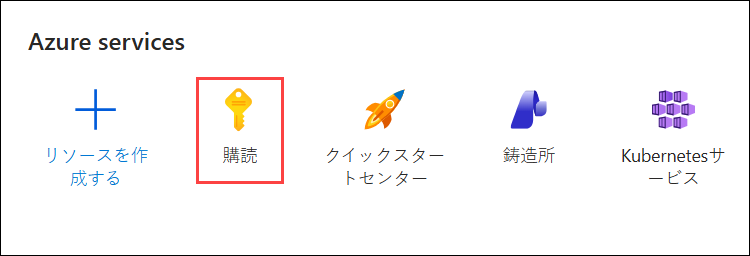
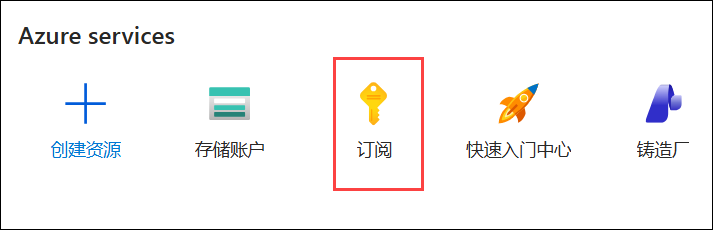
Add Simplified Chinese content

diff --git a/overview-d365.md b/overview-d365.md
@@ -1,63 +1,53 @@
 # ASIA - AI CoE 2026
 
-Using this environment, you can explore the full range of capabilities and services, including Copilot Studio, Copilot for M365 and Dynamic 365 Suite. A detailed overview of the sandbox environment is provided below.
+使用此环境，您可以探索包括 Copilot Studio、Copilot for M365 和 Dynamics 365 套件在内的各种功能和服务。以下是沙盒环境的详细概述。
 
-## About the Sandbox Environment
+## 关于沙盒环境
 
-   | Resources | Value | Remarks |
+   | 资源 | 值 | 备注 |
    | --- | --- | --- |
-   | Enabled Services | `Microsoft Fabric` <br> `Other Azure Services` | You will have access to a dedicated, Owner role permissions on the subscription to explore any desired resources |
-   | Azure Entra ID User | Pre-created Entra ID user account | You will get one Entra ID User Account. |
-   | Azure Subscription Permissions | **Owner** privilege over Azure Subscription | You will get owner access to the Azure subscription. |
-   | Azure Credit | **$250 USD**| Consumption limit is set on Azure spend to 250 USD per group. |
-   | Licenses Assigned | `Microsoft Copilot Business` <br> `Office 365 apps` <br> `Power Apps Premium` <br> `GitHub Copilot` <br> `Microsoft Copilot Studio User License` <br> `Dynamics 365 Finance` <br> `Dynamics 365 Supply Chain Management` <br> `Dynamics 365 Project Operations` <br> `Dynamics 365 Sales Enterprise Edition` <br> `Dynamics 365 Human Resources` <br> `Dynamics 365 Field Service` <br> `Dynamics 365 Business Central Essentials` <br> `Dynamics 365 Customer Service Enterprise` | You will be assigned the following licenses to work with. |
-   | Credit Alerts | Credit Alerts are set on consumption of 25%, 50%, 75%, 85%, 90%, 95% and 100% of total Azure credits. |Make sure to check your registered email's inbox for any alert-related mails. Alerts give you a head start to keep your Azure spending in control and to plan out the remaining credits in the best way possible. |
-   | Sandbox Duration | 30 Days/720 Hours or until Azure Consumption Credits are exhausted.  | The sandbox environment will be deleted automatically after 30 Days/720 Hours or once the Azure credits are exhausted, whichever comes first. |
+   | 已启用的服务 | `Microsoft Fabric` <br> `其他 Azure 服务` | 您将获得订阅的 Owner 角色权限，可自由探索所需资源 |
+   | Azure Entra ID 用户 | 预创建的 Entra ID 用户账户 | 您将获得一个 Entra ID 用户账户。 |
+   | Azure 订阅权限 | Azure 订阅的 **Owner** 权限 | 您将获得 Azure 订阅的所有者访问权限。 |
+   | Azure 额度 | **$250 USD** | 每组 Azure 消费限额设置为 250 美元。 |
+   | 已分配的许可证 | `Microsoft Copilot Business` <br> `Office 365 apps` <br> `Power Apps Premium` <br> `GitHub Copilot` <br> `Microsoft Copilot Studio User License` <br> `Dynamics 365 Finance` <br> `Dynamics 365 Supply Chain Management` <br> `Dynamics 365 Project Operations` <br> `Dynamics 365 Sales Enterprise Edition` <br> `Dynamics 365 Human Resources` <br> `Dynamics 365 Field Service` <br> `Dynamics 365 Business Central Essentials` <br> `Dynamics 365 Customer Service Enterprise` | 您将获得以下许可证以供使用。 |
+   | 额度提醒 | 当 Azure 额度消耗达到总量的 25%、50%、75%、85%、90%、95% 和 100% 时，将发送额度提醒。 | 请务必检查您注册邮箱的收件箱中是否有提醒相关邮件。提醒可帮助您提前掌握 Azure 使用情况，并以最优方式规划剩余额度。 |
+   | 沙盒有效期 | 30 天/720 小时，或 Azure 消费额度耗尽，以先到者为准 | 沙盒环境将在 30 天/720 小时后或 Azure 额度耗尽时自动删除，以先到者为准。 |
 
-## Notes:
-* The Azure credit consumption includes all the resources which you will be deploying while using the sandbox environment for your hackathon use case.
-* You will have owner access on the Azure subscription, you can freely explore the features of required services and are recommended to use it only for learning purposes.
-* Each sandbox environment has a fixed budget cap of USD 250. Please refrain from deploying any resources outside of the sandbox scope, as they may consume the allocated Azure credits and result in the automatic deallocation of the environment once the credit limit is reached.
+## 注意事项:
+* Azure 额度消耗包括您在沙盒环境中用于黑客松用例而部署的所有资源。
+* 您将获得 Azure 订阅的所有者访问权限，可自由探索所需服务的功能，建议仅用于学习目的。
+* 每个沙盒环境的固定预算上限为 250 美元。请勿在沙盒范围之外部署任何资源，否则可能消耗已分配的 Azure 额度，并导致环境在达到额度上限后自动删除。
 
-## Microsoft Fabric Cost Optimization
+## Microsoft Fabric 成本优化
 
-While deploying Microsoft Fabric capacity, use F2 capacity, as it is sufficient for most workloads and helps optimize costs while efficiently utilizing the assigned Azure credits.
+部署 Microsoft Fabric 容量时，建议使用 F2 容量，它足以应对大多数工作负载，同时有助于优化成本并高效利用已分配的 Azure 额度。
 
-## Azure OpenAI Cost Optimization:
-Azure OpenAI service provides two types of deployment SKUs: Standard and PTU-based deployment. The PTU-based model, although powerful, can be quite costly, with a price of **$2 per hour**. Deploying this model would result in a daily cost of **$48**, which may not be a cost-effective option to consider. Additionally, deploying the PTU-based model would quickly exhaust credits within 2-3 days, leading to the automatic deletion of the environment. Therefore, we recommend opting for the **Standard (On-Demand)** Pricing model instead, which offers a more affordable and sustainable deployment strategy.
+## Azure OpenAI 成本优化:
+Azure OpenAI 服务提供两种部署 SKU：Standard 和基于 PTU 的部署。基于 PTU 的模型虽然功能强大，但成本极高，价格为 **每小时 $2**。部署此模型每日成本将达到 **$48**，并不是一个经济实惠的选择。此外，部署基于 PTU 的模型可能在 2 至 3 天内耗尽额度，导致环境被自动删除。因此，建议选择 **Standard（按需）** 定价模型，这是一种更实惠且可持续的部署策略。
 
-## Cost Monitoring:
-To monitor and analyse your Azure credit spend, you can navigate to the Azure Subscription page by following the steps mentioned below.
-+ From the Azure portal home page, search for **Subscriptions (1)** using the search bar and select the same from the suggestions.
+## 成本监控:
+如需监控和分析您的 Azure 额度消耗，可按照以下步骤导航到 Azure 订阅页面。
++ 在 Azure 门户主页中，使用搜索栏搜索 **订阅 (1)**，然后从建议中选择。
   
   ![](media/cost1.png "cost analysis")
   
-+ Select the Cost Analysis tab from the Cost Management pane. You can access a comprehensive breakdown of your Azure spending, offering a granular view of costs associated with various services, and resources.
++ 在"成本管理"窗格中选择"成本分析"选项卡。您可以访问 Azure 支出的综合明细，详细查看与各项服务和资源相关的成本。
 
   ![](media/cost2.png "cost analysis")
 
-+ To get the accurate consumed cost by you, select the **Calendar (2)** from **Cost analysis (1)**  then **Custom date Range (3)**.
 
-  ![](media/cost3.png "cost analysis")
 
-+ Now, select the custom dates.
-    + **Start Date: (1)** The date when you redeemed voucher and launch the Sandbox environment.
-    + **End Date: (2)** Current or future date. If you select the future date, you can also get the forecasted cost based on the current resources you deployed.
-    + You can see the **ACTUAL COST (USD) (4)** and the **FORECAST: CHART VIEW ON (5)** cost.
+## 最佳实践:
++ **资源使用:** 不使用虚拟机、Web 应用、Azure Kubernetes Service、Azure 容器实例及其他资源时，请及时停止，以减少 Azure 消费。
++ **Azure 成本分析:** 养成定期检查已分配 Azure 订阅成本分析报告的习惯，确保环境在较长时间内保持可持续性。
++ **提醒通知:** 请务必检查您注册邮箱的收件箱中是否有提醒相关邮件。提醒可帮助您提前掌握 Azure 使用情况，并以最优方式规划剩余额度。
 
-  ![](media/cost4.png "cost analysis")
+## CloudLabs 支持联系方式:
+如果您在使用沙盒环境时遇到任何问题，或有权限、Azure 消耗相关的疑问，请联系支持团队。
 
-## Best Practices:
-+ **Resources usage:** Please stop the virtual machines, WebApps, Azure Kubernetes service, Azure Container Instance and other resources when not in use to minimize the Azure spend.
-+ **Azure Cost Analysis:** Maintain a practice of regularly checking the Cost Analysis report for the assigned Azure subscription to ensure the sustainability of the environment over an extended period.
-+ **Alert notifications:** Make sure to check your registered email's inbox for any alert-related emails. Alerts give you can head start to keep your Azure spending in control and to plan out the remaining credits in the best way possible.
+* 沙盒用户邮件支持: cloudlabs-support@spektrasystems.com
+* 沙盒用户在线聊天支持: https://cloudlabs.ai/ms-support
 
-## CloudLabs Support Contacts:
-You can reach out to the support team in case you face any difficulty in using the sandbox environment, any permission, or Azure consumption-related queries.
-
-* Sandbox user Email Support:  cloudlabs-support@spektrasystems.com
-* Sandbox user Live Chat Support: https://cloudlabs.ai/ms-support
-
-When you contact support, please provide the following information:
-+  "I am a participant user of **ASIA - AI CoE 2026**, my registered email address is `email@contoso.com`, followed by your query/issue."
-
+联系支持时，请提供以下信息：
++ "我是 **ASIA - AI CoE 2026** 的参与者，我的注册邮箱地址是 `email@contoso.com`，"后跟您的问题/请求。

diff --git a/overview.md b/overview.md
@@ -1,63 +1,53 @@
 # ASIA - AI CoE 2026
 
-Using this environment, you can explore the full range of capabilities and services, including Copilot Studio, Copilot for M365 and many others. A detailed overview of the sandbox environment is provided below.
+使用此环境，您可以探索包括 Copilot Studio、Copilot for M365 在内的各种功能和服务。以下是沙盒环境的详细概述。
 
-## About the Sandbox Environment
+## 关于沙盒环境
 
-   | Resources | Value | Remarks |
+   | 资源 | 值 | 备注 |
    | --- | --- | --- |
-   | Enabled Services | `Microsoft Fabric` <br> `Other Azure Services` | You will have access to a dedicated, Owner role permissions on the subscription to explore any desired resources |
-   | Azure Entra ID User | Pre-created Entra ID user account | You will get one Entra ID User Account. |
-   | Azure Subscription Permissions | **Owner** privilege over Azure Subscription | You will get owner access to the Azure subscription. |
-   | Azure Credit | **$250 USD**| Consumption limit is set on Azure spend to 250 USD per group. |
-   | Licenses Assigned | `Microsoft Copilot Business` <br> `Office 365 apps` <br> `Power Apps Premium` <br> `GitHub Copilot` <br> `Microsoft Copilot Studio User License` | You will be assigned the following licenses to work with. |
-   | Credit Alerts | Credit Alerts are set on consumption of 25%, 50%, 75%, 85%, 90%, 95% and 100% of total Azure credits. |Make sure to check your registered email's inbox for any alert-related mails. Alerts give you a head start to keep your Azure spending in control and to plan out the remaining credits in the best way possible. |
-   | Sandbox Duration | 30 Days/720 Hours or until Azure Consumption Credits are exhausted.  | The sandbox environment will be deleted automatically after 30 Days/720 Hours or once the Azure credits are exhausted, whichever comes first. |
+   | 已启用的服务 | `Microsoft Fabric` <br> `其他 Azure 服务` | 您将获得订阅的 Owner 角色权限，可自由探索所需资源 |
+   | Azure Entra ID 用户 | 预创建的 Entra ID 用户账户 | 您将获得一个 Entra ID 用户账户。 |
+   | Azure 订阅权限 | Azure 订阅的 **Owner** 权限 | 您将获得 Azure 订阅的所有者访问权限。 |
+   | Azure 额度 | **$250 USD** | 每组 Azure 消费限额设置为 250 美元。 |
+   | 已分配的许可证 | `Microsoft Copilot Business` <br> `Office 365 apps` <br> `Power Apps Premium` <br> `GitHub Copilot` <br> `Microsoft Copilot Studio User License` | 您将获得以下许可证以供使用。 |
+   | 额度提醒 | 当 Azure 额度消耗达到总量的 25%、50%、75%、85%、90%、95% 和 100% 时，将发送额度提醒。 | 请务必检查您注册邮箱的收件箱中是否有提醒相关邮件。提醒可帮助您提前掌握 Azure 使用情况，并以最优方式规划剩余额度。 |
+   | 沙盒有效期 | 30 天/720 小时，或 Azure 消费额度耗尽，以先到者为准 | 沙盒环境将在 30 天/720 小时后或 Azure 额度耗尽时自动删除，以先到者为准。 |
 
-## Notes:
-* The Azure credit consumption includes all the resources which you will be deploying while using the sandbox environment for your hackathon use case.
-* You will have owner access on the Azure subscription, you can freely explore the features of required services and are recommended to use it only for learning purposes.
-* Each sandbox environment has a fixed budget cap of USD 250. Please refrain from deploying any resources outside of the sandbox scope, as they may consume the allocated Azure credits and result in the automatic deallocation of the environment once the credit limit is reached.
+## 注意事项:
+* Azure 额度消耗包括您在沙盒环境中用于黑客松用例而部署的所有资源。
+* 您将获得 Azure 订阅的所有者访问权限，可自由探索所需服务的功能，建议仅用于学习目的。
+* 每个沙盒环境的固定预算上限为 250 美元。请勿在沙盒范围之外部署任何资源，否则可能消耗已分配的 Azure 额度，并导致环境在达到额度上限后自动删除。
 
-## Microsoft Fabric Cost Optimization
+## Microsoft Fabric 成本优化
 
-While deploying Microsoft Fabric capacity, use F2 capacity, as it is sufficient for most workloads and helps optimize costs while efficiently utilizing the assigned Azure credits.
+部署 Microsoft Fabric 容量时，建议使用 F2 容量，它足以应对大多数工作负载，同时有助于优化成本并高效利用已分配的 Azure 额度。
 
-## Azure OpenAI Cost Optimization:
-Azure OpenAI service provides two types of deployment SKUs: Standard and PTU-based deployment. The PTU-based model, although powerful, can be quite costly, with a price of **$2 per hour**. Deploying this model would result in a daily cost of **$48**, which may not be a cost-effective option to consider. Additionally, deploying the PTU-based model would quickly exhaust credits within 2-3 days, leading to the automatic deletion of the environment. Therefore, we recommend opting for the **Standard (On-Demand)** Pricing model instead, which offers a more affordable and sustainable deployment strategy.
+## Azure OpenAI 成本优化:
+Azure OpenAI 服务提供两种部署 SKU：Standard 和基于 PTU 的部署。基于 PTU 的模型虽然功能强大，但成本极高，价格为 **每小时 $2**。部署此模型每日成本将达到 **$48**，并不是一个经济实惠的选择。此外，部署基于 PTU 的模型可能在 2 至 3 天内耗尽额度，导致环境被自动删除。因此，建议选择 **Standard（按需）** 定价模型，这是一种更实惠且可持续的部署策略。
 
-## Cost Monitoring:
-To monitor and analyse your Azure credit spend, you can navigate to the Azure Subscription page by following the steps mentioned below.
-+ From the Azure portal home page, search for **Subscriptions (1)** using the search bar and select the same from the suggestions.
+## 成本监控:
+如需监控和分析您的 Azure 额度消耗，可按照以下步骤导航到 Azure 订阅页面。
++ 在 Azure 门户主页中，使用搜索栏搜索 **订阅 (1)**，然后从建议中选择。
   
   ![](media/cost1.png "cost analysis")
   
-+ Select the Cost Analysis tab from the Cost Management pane. You can access a comprehensive breakdown of your Azure spending, offering a granular view of costs associated with various services, and resources.
++ 在“成本管理”窗格中选择“成本分析”选项卡。您可以访问 Azure 支出的综合明细，详细查看与各项服务和资源相关的成本。
 
   ![](media/cost2.png "cost analysis")
 
-+ To get the accurate consumed cost by you, select the **Calendar (2)** from **Cost analysis (1)**  then **Custom date Range (3)**.
 
-  ![](media/cost3.png "cost analysis")
 
-+ Now, select the custom dates.
-    + **Start Date: (1)** The date when you redeemed voucher and launch the Sandbox environment.
-    + **End Date: (2)** Current or future date. If you select the future date, you can also get the forecasted cost based on the current resources you deployed.
-    + You can see the **ACTUAL COST (USD) (4)** and the **FORECAST: CHART VIEW ON (5)** cost.
+## 最佳实践:
++ **资源使用:** 不使用虚拟机、Web 应用、Azure Kubernetes Service、Azure 容器实例及其他资源时，请及时停止，以减少 Azure 消费。
++ **Azure 成本分析:** 养成定期检查已分配 Azure 订阅成本分析报告的习惯，确保环境在较长时间内保持可持续性。
++ **提醒通知:** 请务必检查您注册邮箱的收件箱中是否有提醒相关邮件。提醒可帮助您提前掌握 Azure 使用情况，并以最优方式规划剩余额度。
 
-  ![](media/cost4.png "cost analysis")
+## CloudLabs 支持联系方式:
+如果您在使用沙盒环境时遇到任何问题，或有权限、Azure 消耗相关的疑问，请联系支持团队。
 
-## Best Practices:
-+ **Resources usage:** Please stop the virtual machines, WebApps, Azure Kubernetes service, Azure Container Instance and other resources when not in use to minimize the Azure spend.
-+ **Azure Cost Analysis:** Maintain a practice of regularly checking the Cost Analysis report for the assigned Azure subscription to ensure the sustainability of the environment over an extended period.
-+ **Alert notifications:** Make sure to check your registered email's inbox for any alert-related emails. Alerts give you can head start to keep your Azure spending in control and to plan out the remaining credits in the best way possible.
+* 沙盒用户邮件支持: cloudlabs-support@spektrasystems.com
+* 沙盒用户在线聊天支持: https://cloudlabs.ai/ms-support
 
-## CloudLabs Support Contacts:
-You can reach out to the support team in case you face any difficulty in using the sandbox environment, any permission, or Azure consumption-related queries.
-
-* Sandbox user Email Support:  cloudlabs-support@spektrasystems.com
-* Sandbox user Live Chat Support: https://cloudlabs.ai/ms-support
-
-When you contact support, please provide the following information:
-+  "I am a participant user of **ASIA - AI CoE 2026**, my registered email address is `email@contoso.com`, followed by your query/issue."
-
+联系支持时，请提供以下信息：
++ "我是 **ASIA - AI CoE 2026** 的参与者，我的注册邮箱地址是 `email@contoso.com`，"后跟您的问题/请求。

diff --git a/getting-started.md b/getting-started.md
@@ -1,64 +1,62 @@
-# Getting Started with the Sandbox
+# 开始使用沙盒环境
 
-## Login to Azure Portal
+## 登录 Azure 门户
 
-1. Navigate to [Azure Portal](https://portal.azure.com) using a new browser tab.
+1. 使用新的浏览器标签页导航到 [Azure 门户](https://portal.azure.com)。
    
-1. On **Sign into Microsoft Azure** tab you will see the login screen, in that enter the following email/username and then click on **Next**. 
+1. 在 **[登录 Microsoft Azure]** 标签页中，您将看到登录界面。输入以下电子邮件/用户名，然后单击 **[下一步]**。
 
-   * Email/Username: <inject key="AzureAdUserEmail"></inject>
+   * 电子邮件/用户名: <inject key="AzureAdUserEmail"></inject>
    
      ![](media/image7.png "Enter Email")
 
-     > **Note:** If you get a **Download Microsoft Edge mobile app** popup, then click on **Do not show** dropdown and select **Don't show this recommendation again**. 
+     > **注意:** 如果出现 **[下载 Microsoft Edge 移动应用]** 弹出窗口，请单击 **[不显示]** 下拉菜单并选择 **[不再显示此建议]**。
      
-1. Now enter the following password and click on **Sign in**.
+1. 输入以下密码，然后单击 **[登录]**。
 
-   * Password: <inject key="AzureAdUserPassword"></inject>
+   * 密码: <inject key="AzureAdUserPassword"></inject>
    
      ![](media/Sign-in-page.png "Enter Password")
   
-1. If you see the pop-up **Stay Signed in?**, click No
+1. 如果出现 **[保持登录状态?]** 弹出窗口，请单击 **[否]**。
 
-1. If you see the pop-up **You have free Azure Advisor recommendations!**, close the window to continue the lab.
+1. 如果出现 **[您有免费的 Azure Advisor 建议!]** 弹出窗口，请关闭该窗口以继续实验。
 
-1. If a **Welcome to Microsoft Azure** popup window appears, click **Maybe Later** to skip the tour.
+1. 如果出现 **[欢迎使用 Microsoft Azure]** 弹出窗口，请单击 **[以后再说]** 跳过引导。
 
-## Login to GitHub
+## 登录 GitHub
 
-1. Please open a browser on your laptop, preferably an InPrivate/Incognito window and follow the steps below to activate your GitHub account. 
+1. 请在您的浏览器中打开 InPrivate/隐身窗口，按照以下步骤激活您的 GitHub 账户。
 
-1. Navigate to the given URL to accept the invite.
+1. 导航到以下 URL 以接受邀请。
 
    - **InviteRedirectURL:** `https://myapplications.microsoft.com/?tenantid=f871d17e-efcd-44c7-ba5a-0162efa2fded`
 
-1. You'll see the **Sign in** tab. Here, enter your credentials:
+1. 您将看到 **[登录]** 标签页。在此输入您的凭据：
  
-   - **Email/Username:** **<inject key="AzureAdUserEmail"></inject>**
+   - **电子邮件/用户名:** **<inject key="AzureAdUserEmail"></inject>**
  
        ![Enter Your Username](./media3/login1.png)
 
-1. Next, provide your password to login:
+1. 接下来，输入您的密码以登录：
  
-   - **Password:** **<inject key="AzureAdUserPassword"></inject>**
+   - **密码:** **<inject key="AzureAdUserPassword"></inject>**
  
       ![Enter Your Password](./media3/login2.png)
 
-1. In the next pane, click on **Accept** to accept the invitation.
+1. 在下一个窗口中，单击 **[接受]** 以接受邀请。
 
-    ![](./media3/gs2.png)
+1. 如果出现 **[保持登录状态?]** 弹出窗口，请单击 **[否]**。
 
-1. If you see the pop-up **Stay Signed in?**, click No
-
-1. Once done you can close this browser tab, navigate to GitHub login page in a new browser tab using the provided URL below:
+1. 完成后，关闭此浏览器标签页，使用以下 URL 在新的浏览器标签页中导航到 GitHub 登录页面：
 
    ```
    https://github.com/login
    ```
 
-1. On the **Sign in to GitHub** tab, you will see the login screen. enter your GitHub username as the username provided, then click on **Sign in with your identity provider** to continue **(2)**.
+1. 在 **[登录 GitHub]** 标签页中，您将看到登录界面。输入提供的 GitHub 用户名，然后单击 **[使用身份提供程序登录]** 以继续 **(2)**。
 
-   - GitHub User: 
+   - GitHub 用户: 
 
     ```
     odl-user-<inject key="Deployment ID" enableCopy="false"/>_clabs
@@ -66,19 +64,17 @@
 
     ![](./media3/github-logina.png)
 
-1. Click on **Continue** on the **Single sign-on to CloudLabs Organizations** page to proceed.
+1. 在 **[单点登录到 CloudLabs Organizations]** 页面上单击 **[继续]**。
 
    ![](./media3/github-loginb.png)
 
-1. If it ask for login, please login using your useremail and password, provided with the environmnet: 
+1. 如果要求登录，请使用环境提供的电子邮件和密码登录：
 
-   - **Email/Username:** **<inject key="AzureAdUserEmail"></inject>**
+   - **电子邮件/用户名:** **<inject key="AzureAdUserEmail"></inject>**
 
-   - **Password:** **<inject key="AzureAdUserPassword"></inject>**
+   - **密码:** **<inject key="AzureAdUserPassword"></inject>**
 
-1. You are successfully logged in to GitHub.
-
-
-All the best! now, you are all set to start!.
+1. 您已成功登录 GitHub。
 
 
+一切就绪！现在可以开始了！
